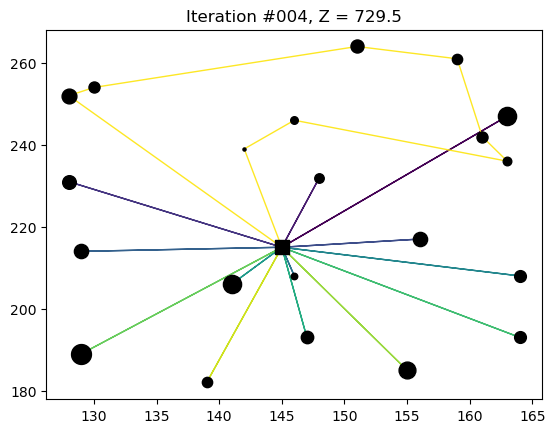
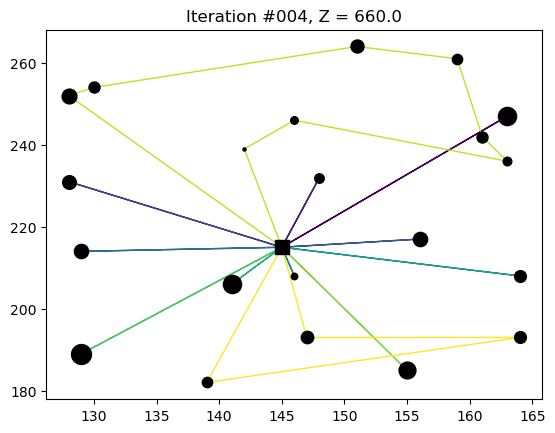
need to fix plotting staying on

diff --git a/src/solver/column_generation/espcc.py b/src/solver/column_generation/espcc.py
@@ -206,7 +206,7 @@ class ESPCC:
             else:
                 raise ValueError(f"path does not match: {path}")
         except:
-            print(f"\tMethod {method} did not work...")
+            print(f"Method {method} did not work...")
             pass
 
         return path
@@ -228,17 +228,24 @@ class ESPCC:
         paths.append(self._solve_with_cspy(method="tabu"))
         paths.append(self._solve_with_cspy(method="grasp"))
         paths.append(self._solve_with_cspy(method="psolgent"))
+        paths.append(self._solve_with_cspy(method="greedy"))
 
         # Check the paths and compute their cost and feasibility
         solutions: List[float, List[int]] = []
         for p in paths:
-            if p is not None:
-                # Change the Source and Sink names
-                p[0] = 0  # this is the depot
-                p[-1] = self.N - 1  # this is the virtual depot
-                feasible, cost = self._evaluate_path(p)
+            if p is not None:  # p is like ['Source', '2', '5', 'Sink']
+                path_ints = []  # need to transform to ints
+                for i, node in enumerate(p):
+                    if i == 0:  # This is 'Source'
+                        path_ints.append(0)
+                    elif i == len(p) - 1:  # This is 'Sink'
+                        path_ints.append(self.N - 1)
+                    else:
+                        path_ints.append(int(node))
+
+                feasible, cost = self._evaluate_path(path_ints)
                 if feasible and cost < REDUCED_COST_MAX_VALUE:
-                    solutions.append((cost, p))
+                    solutions.append((cost, path_ints))
 
         # Return some of the solutions found
         return solutions

diff --git a/src/solver/column_generation/method.py b/src/solver/column_generation/method.py
@@ -30,6 +30,8 @@ class SolverColumnGeneration:
         self.log = Log()
         self.folder = folder
 
+        # TODO: fix the plotting is staying on
+
         # heuristic solution
         # self.initial_solution = initial_solution.closest_client(instance)
         self.initial_solution = initial_solution.one_route_per_client(instance)
